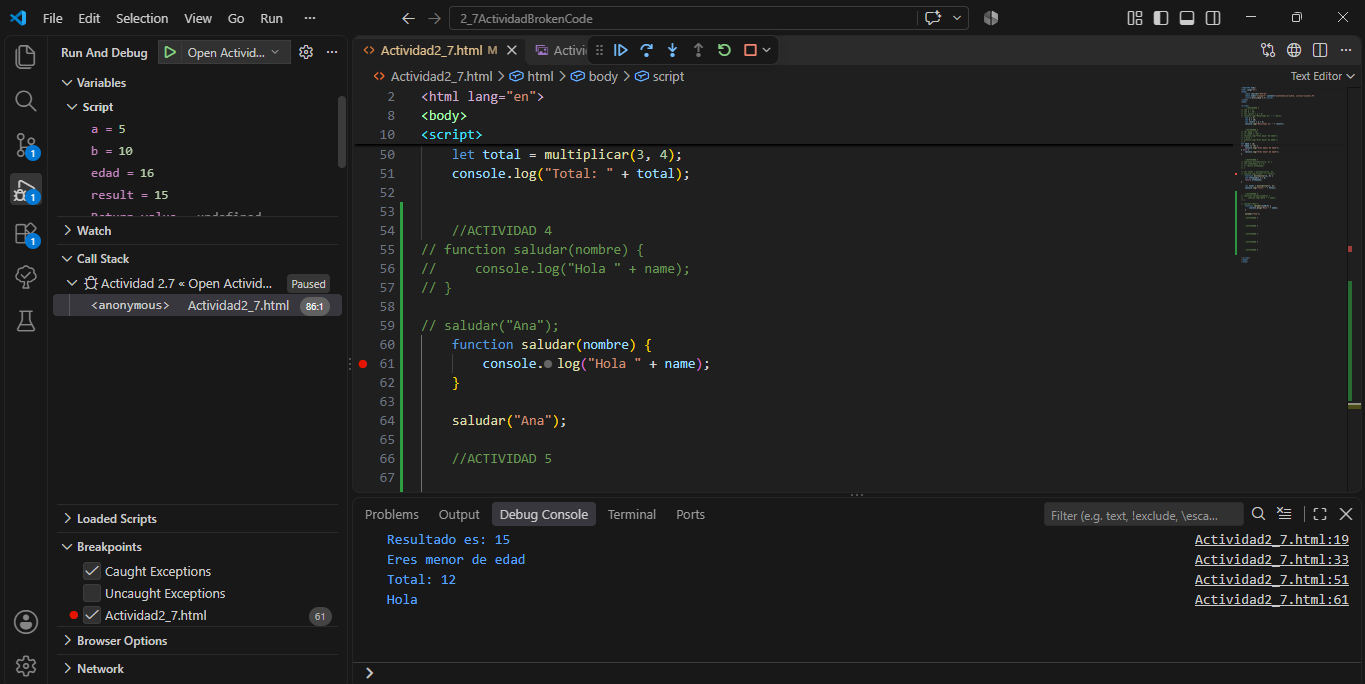
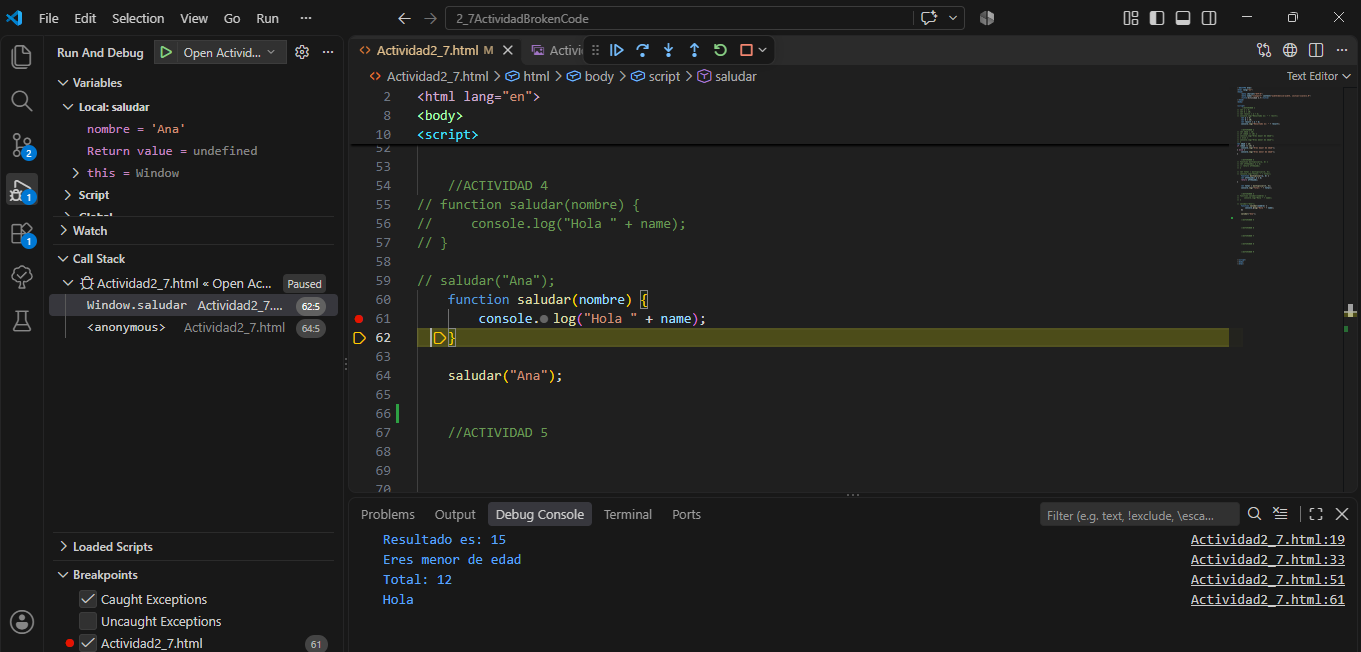
Solucion ejercicio 4 antes no estaba solucionado

diff --git a/Actividad2_7.html b/Actividad2_7.html
@@ -58,10 +58,11 @@ if (edad >= 18) {
  
 // saludar("Ana");
     function saludar(nombre) {
-        console.log("Hola " + name);
+        console.log("Hola " + nombre);
     }
     
     saludar("Ana");
+
 
     //ACTIVIDAD 5
 
